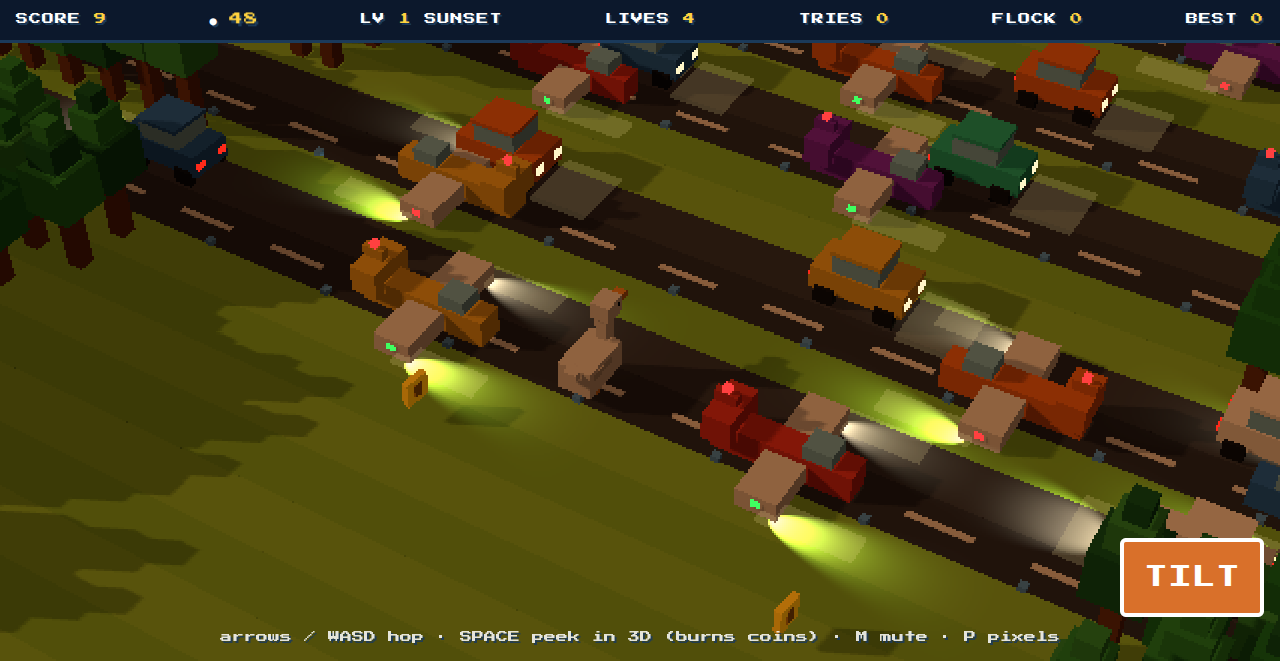
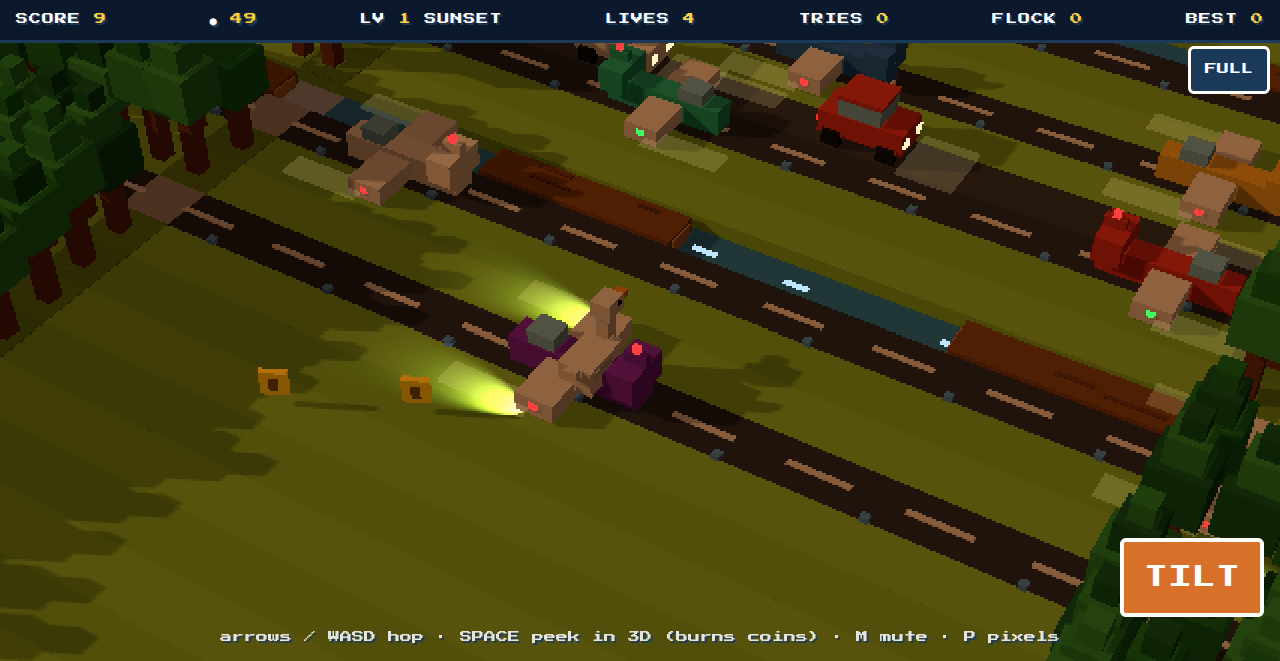
A visible edge of play, and a take-off worth catching
The fence at ±W was not unfair because of where it sits, it was unfair
because nothing marked it. Only the static rows dress their edges — road,
river, rail and runway call edge() not at all — so on exactly the rows where
you slide sideways to dodge, you crossed open ground into nothing.

A fence post cannot stand where traffic runs through those columns, so the
marker goes on the ground: a verge just outside the last column, on every
row. It contrasts against what it lies on rather than simply being darker,
because a darker strip vanishes on a night road and a lighter one vanishes
on grass. Forest also stops rolling for the first column out — that one is
the wall you can see, and a gap in it is an invisible fence again.

The hard edge stays where it was at OFF_EDGE, comfortably outside the
verge, and being carried past it is still FLOWN OFF. That pose now reads as
what it is: not lobbed and dropped, but accelerating away with the plane
from a ground that keeps getting further off.

Take-offs carry equal weight with taxiing now, since boarding a wing while
it is still low is the only way to be flown off the map and it should come
round often enough to be worth waiting for.

make smoke S=wing rides one out: boarded low, climbing, carried past the
hard edge as `flown`. Its first version asserted nothing — it parked the
plane at 12, already outside the hard edge at 11.6, so the player died on
the first frame having never ridden. y: 0.4 instead of the expected 3 is
[…]

diff --git a/src/lane.js b/src/lane.js
@@ -13,6 +13,7 @@ export const SPAN = 35;
 const RING = SPAN / VIEW;    // the ring grew by this much, so counts scale with it to hold the density
 export const OFF_EDGE = 11.6; // carried this far is off screen and lost
 export const GW = 120;       // ground width: far past any camera edge, even tilted
+export const VERGE_W = 1.1;  // width of the darker strip marking the edge of play
 export const DETAIL_W = 60;  // repeated details (dashes, stripes, sleepers) only span this
 
 // One board row. Scenarios fill it through these helpers; the board and the
@@ -41,7 +42,25 @@ export class Lane {
     return mesh;
   }
 
-  ground(color, top = 0, thick = 0.5) { this.add(makeGround(GW, color, top, thick)); }
+  ground(color, top = 0, thick = 0.5) {
+    this.add(makeGround(GW, color, top, thick));
+    this.verge(color, top);
+  }
+
+  // The play area ends at ±W and, on a road or a river, nothing said so: you
+  // walked over open ground into an invisible fence. A darker verge just
+  // outside the last column marks it on every row — including the ones where
+  // traffic runs through those columns and a fence post could not stand.
+  verge(color, top) {
+    if (typeof color !== 'number') return;
+    // Contrast against whatever it lies on rather than simply darker: a darker
+    // strip is invisible on a night road, and a lighter one is invisible on
+    // grass. Dark ground gets a pale verge, bright ground a deep one.
+    const c = new THREE.Color(color);
+    const lum = 0.299 * c.r + 0.587 * c.g + 0.114 * c.b;
+    const shade = (lum > 0.3 ? c.multiplyScalar(0.55) : c.lerp(new THREE.Color(0xffffff), 0.42)).getHex();
+    for (const s of [-1, 1]) this.add(makeGround(VERGE_W, shade, top + 0.012, 0.02), s * (W + 0.5 + VERGE_W / 2));
+  }
 
   block(c) { this.blocked.add(c); }
 

diff --git a/src/poses.js b/src/poses.js
@@ -250,11 +250,17 @@ export const POSES = {
     },
   },
 
-  // Carried off by something with wings.
+  // Carried past the hard edge still standing on the wing. Not lobbed — the
+  // plane is leaving and they are going with it, accelerating away from a
+  // ground that just keeps getting further off.
   launch: {
+    cue: ['jet', 100],
     update(p, t) {
-      p.mesh.position.y = t * 12 - t * t * 9;
-      p.mesh.rotation.x = t * 8;
+      const away = Math.sign(p.x) || 1;
+      p.mesh.position.y = p.y + t * t * 7;
+      p.mesh.position.x = p.x + away * t * t * 3.5;
+      p.mesh.rotation.z = -away * t * 1.4;
+      p.mesh.scale.setScalar(Math.max(0.04, 1 - t * 0.3));
     },
     // Dropped back in from wherever it was taken.
     spawn(p, t) {

diff --git a/src/scenarios/runway.js b/src/scenarios/runway.js
@@ -16,7 +16,10 @@ registerDeath('flown', { anim: 'launch', title: 'FLOWN OFF', sfx: 'splat' });
 const CLIMB = 4;          // height reached at the end of the row
 const LETHAL_BELOW = 1.0; // plane height under which it can hit you
 
-const WEIGHT = { taxi: 3, takeoff: 2, landing: 2 };
+// Take-offs carry the most: a wing boarded while it is still low is the only
+// way to be flown off the map, so they need to come round often enough to be
+// worth waiting for.
+const WEIGHT = { taxi: 3, takeoff: 3, landing: 2 };
 function pickComposition(level) {
   const kinds = kindsFor('runway', level);
   if (mixesAllowed(level) && kinds.length > 1 && Math.random() < 0.3) return kinds;

diff --git a/src/scenery/forest.js b/src/scenery/forest.js
@@ -6,7 +6,10 @@ export default {
   id: 'forest',
   ground(lane) { lane.ground(lane.r % 2 ? 0x9ad24a : 0x8fca43); },
   edge(lane) {
-    for (let c = W + 1; c <= W + 7; c++) {
+    // The first column out is always filled: that one is the wall you can see,
+    // and a gap in it is an invisible fence again. The rest thins out behind.
+    for (const s of [-1, 1]) lane.add(makeTree(true), s * (W + 1) + rand(-0.15, 0.15));
+    for (let c = W + 2; c <= W + 7; c++) {
       for (const s of [-1, 1]) if (Math.random() < 0.75) lane.add(makeTree(true), s * c + rand(-0.15, 0.15));
     }
   },
